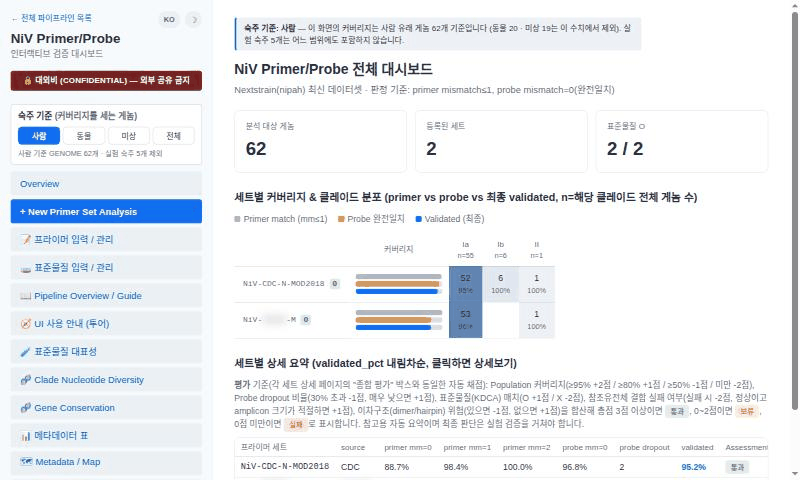
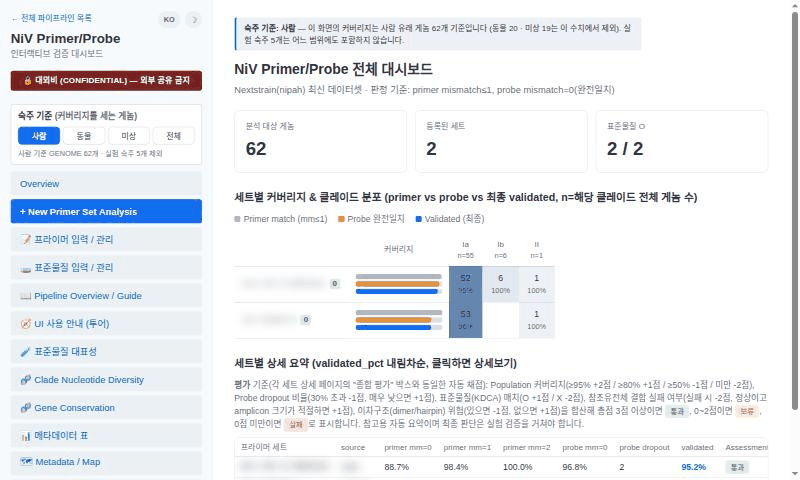
Update (Nipah): blur set names and sources in the overview screenshots; document how to collect the names to hide

diff --git a/docs/demo_blur.js b/docs/demo_blur.js
@@ -4,6 +4,10 @@
 //   - nucleotide strings (primers, probes, standard materials, genome pieces): 10 or more bases in a row
 //   - the primer/probe row, the consensus row and the amplicon alignment of the MSA / binding pop-ups
 //   - sequence input boxes (primer forms, standard-material forms) and standard-material names in pop-ups
+// Collect the names that identify your sets (set names, sources/vendors, standard-material names) from the dashboard, then load this file:
+//   const get = async (u) => (await fetch(u)).json();
+//   const [std, sets] = await Promise.all([get("/api/standards/manifest"), get("/api/sets")]);
+//   window.__demoBlurWords = [...new Set([...std.rows.map((r) => r.name), ...sets.flatMap((s) => [s.display_name, s.source])])].filter(Boolean);
 // Paste this file into the browser console (or run it with the browser tool) on the dashboard page; it keeps working while the
 // page re-renders. `window.__demoBlurOff()` removes it.
 (function () {
